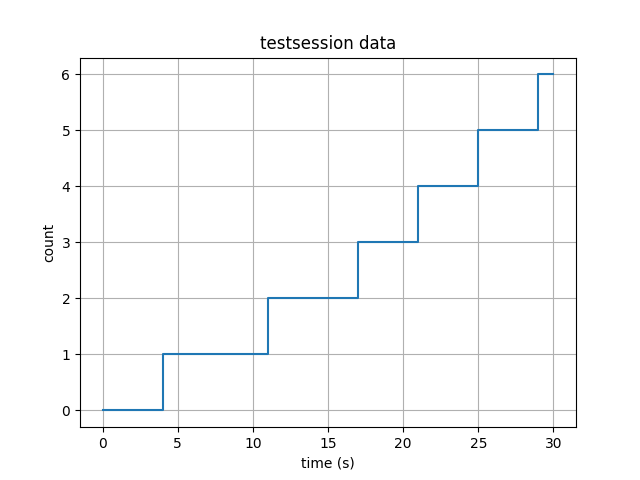
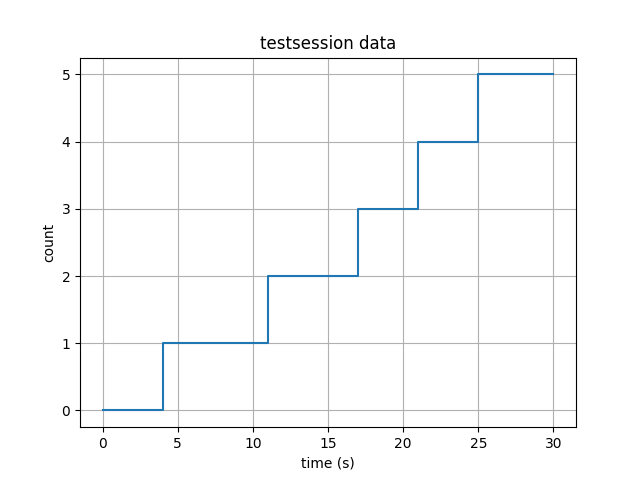
returning result to user logic done

diff --git a/fallfixserver/app.py b/fallfixserver/app.py
@@ -5,6 +5,7 @@ import numpy as np
 import matplotlib
 matplotlib.use('Agg')
 import matplotlib.pyplot as plt
+import base64
 
 app = Flask(__name__)
 
@@ -109,10 +110,24 @@ def retgraph(session):
     cur = con.cursor()
 
     secondsleft=cur.execute("SELECT secondsleft FROM data WHERE SESSION=('%s') ORDER BY date" % (session)).fetchall()
-    count=cur.execute("SELECT count FROM data WHERE SESSION=('%s') ORDER BY date" % (session)).fetchall()
+    c=cur.execute("SELECT count FROM data WHERE SESSION=('%s') ORDER BY date" % (session)).fetchall()
+
+    size=len(secondsleft)
+
+    for i in range(1, len(c)):
+        if c[i] == 0:
+            size = i
+            break
+    
+    secondsleft = secondsleft[:i]
+    c = c[:i]
 
     secondsleftlist=[]
     countlist=[]
+
+    gender = cur.execute("SELECT gender FROM userattr WHERE SESSION=('%s')" % (session)).fetchall()[0][0]
+    age = int(cur.execute("SELECT age FROM userattr WHERE SESSION=('%s')" % (session)).fetchall()[0][0])
+    count = int(c[len(c) - 1][0])
 
     secondsleftlist.append(30-int(secondsleft[0][0]))
     for i in range(1, len(secondsleft)):
@@ -120,11 +135,11 @@ def retgraph(session):
         secondsleftlist.append(30-int(secondsleft[i][0]))
     secondsleftlist.append(30)
     
-    countlist.append(int(count[0][0]))
-    for i in range(1, len(count)):
-        countlist.append(int(count[i-1][0]))
-        countlist.append(int(count[i][0]))
-    countlist.append(int(count[len(count)-1][0]))
+    countlist.append(int(c[0][0]))
+    for i in range(1, len(c)):
+        countlist.append(int(c[i-1][0]))
+        countlist.append(int(c[i][0]))
+    countlist.append(int(c[len(c)-1][0]))
 
     fig, ax = plt.subplots()
     ax.plot(secondsleftlist, countlist)
@@ -137,12 +152,115 @@ def retgraph(session):
 
     con.close()
 
-    return "<p>Hello, World!</p>"
+    base = base64.b64encode(open("plots/"+session+".png","rb").read())
+    
+    success = True
+
+    if int(age) >= 90:
+        if gender:
+            mincount=4
+            if count >= 4:
+                success = True
+            else:
+                success = False
+        else:
+            mincount=7
+            if count >= 7:
+                success = True
+            else:
+                success = False
+    elif int(age) >= 85:
+        if gender:
+            mincount=8
+            if count >= 8:
+                success = True
+            else:
+                success = False
+        else:
+            mincount=8
+            if count >= 8:
+                success = True
+            else:
+                success = False
+    elif int(age) >= 80:
+        if gender:
+            mincount=9
+            if count >= 9:
+                success = True
+            else:
+                success = False
+        else:
+            mincount=10
+            if count >= 10:
+                success = True
+            else:
+                success = False
+    elif int(age) >= 75:
+        if gender:
+            mincount=10
+            if count >= 10:
+                success = True
+            else:
+                success = False
+        else:
+            mincount=11
+            if count >= 11:
+                success = True
+            else:
+                success = False
+    elif int(age) >= 70:
+        if gender:
+            mincount=10
+            if count >= 10:
+                success = True
+            else:
+                success = False
+        else:
+            mincount=12
+            if count >= 12:
+                success = True
+            else:
+                success = False
+    elif int(age) >= 65:
+        if gender:
+            mincount=11
+            if count >= 11:
+                success = True
+            else:
+                success = False
+        else:
+            mincount=12
+            if count >= 12:
+                success = True
+            else:
+                success = False
+    else:
+        if gender:
+            mincount=12
+            if count >= 12:
+                success = True
+            else:
+                success = False
+        else:
+            mincount=14
+            if count >= 14:
+                success = True
+            else:
+                success = False
+    
+    if success:
+        result = "You passed! Great job! In order to pass you needed to have had a score of " + str(mincount) + ", and you had a score of " + str(count) + " so we have not found you to be at risk of falling!"
+    else:
+        result = "Unfortunately, you did not pass. In order to pass, you needed to have a score of " + str(mincount) + ", but you had a score of " + str(count) + " so we have found you to be at risk of falling. Don't get discouraged! We believe in you!"
+
+    return result + ",-," + str(base)[2:len(str(base))-1]
 
 @app.route("/generatetestdata")
 def generatetestdata():
     con = sqlite3.connect('wizeview.db')
     cur = con.cursor()
+
+    cur.execute("INSERT INTO userattr VALUES ('%s','%s','%s')" % ("testsession", "false", "72"))
 
     cur.execute("INSERT INTO data VALUES ('%s','%s','%s','%s')" % ("testsession", "30", "", "0"))
     cur.execute("INSERT INTO data VALUES ('%s','%s','%s','%s')" % ("testsession", "26", "", "1"))

diff --git a/fallfixserver/database.py b/fallfixserver/database.py
@@ -13,3 +13,5 @@ cur.execute('''CREATE TABLE init
 
 cur.execute('''CREATE TABLE userattr
                (session text, gender text, age text)''')
+
+con.close()
